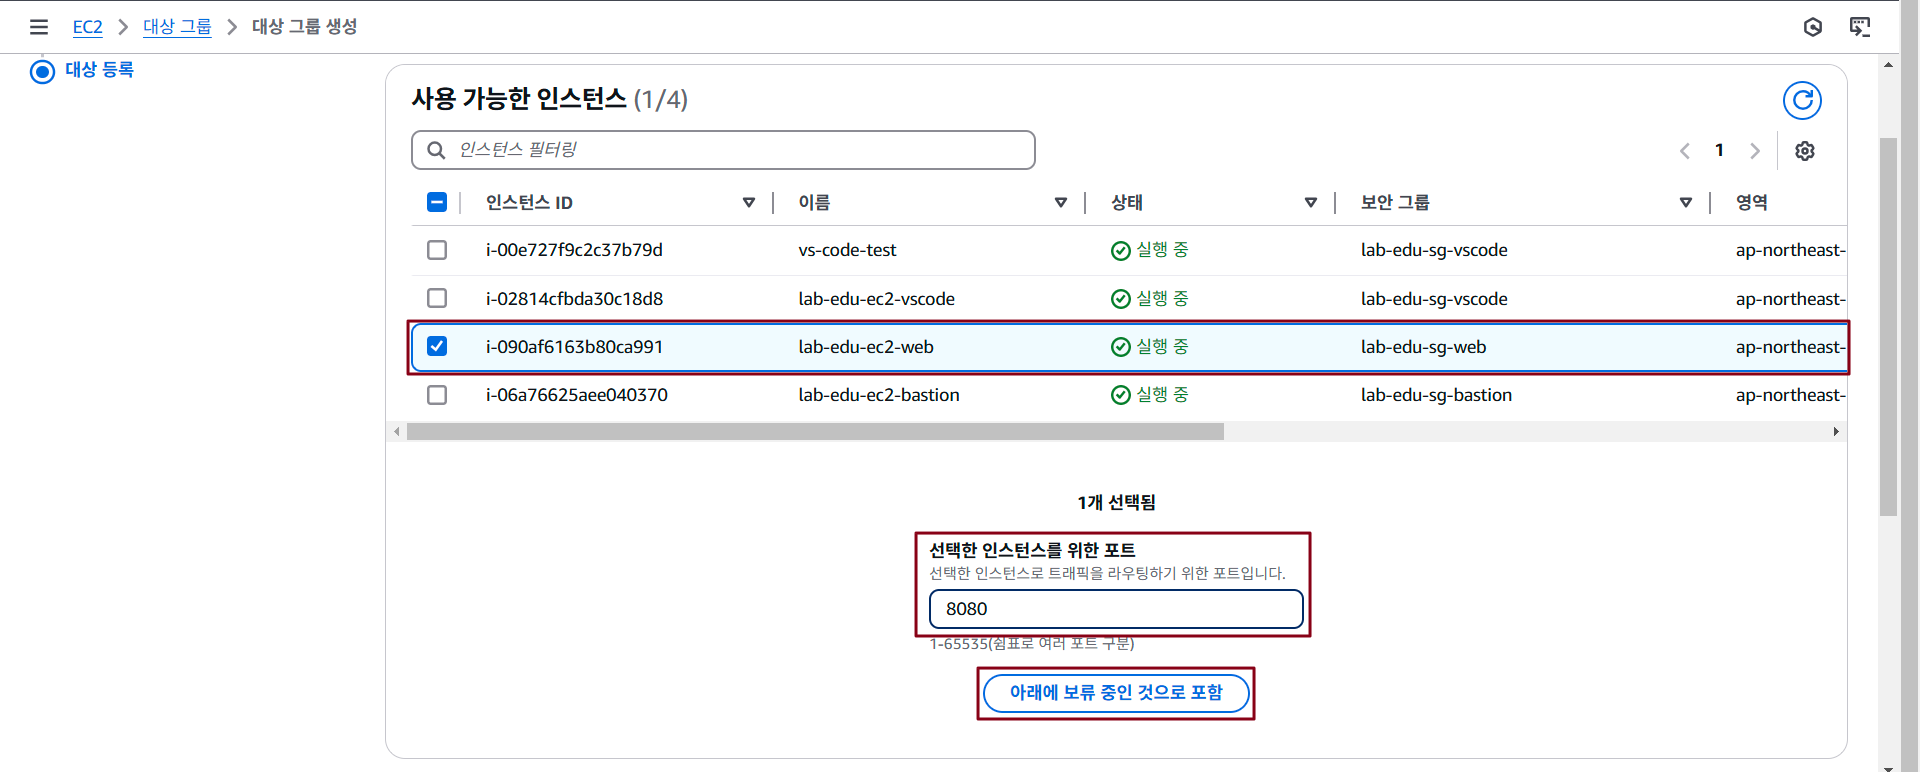
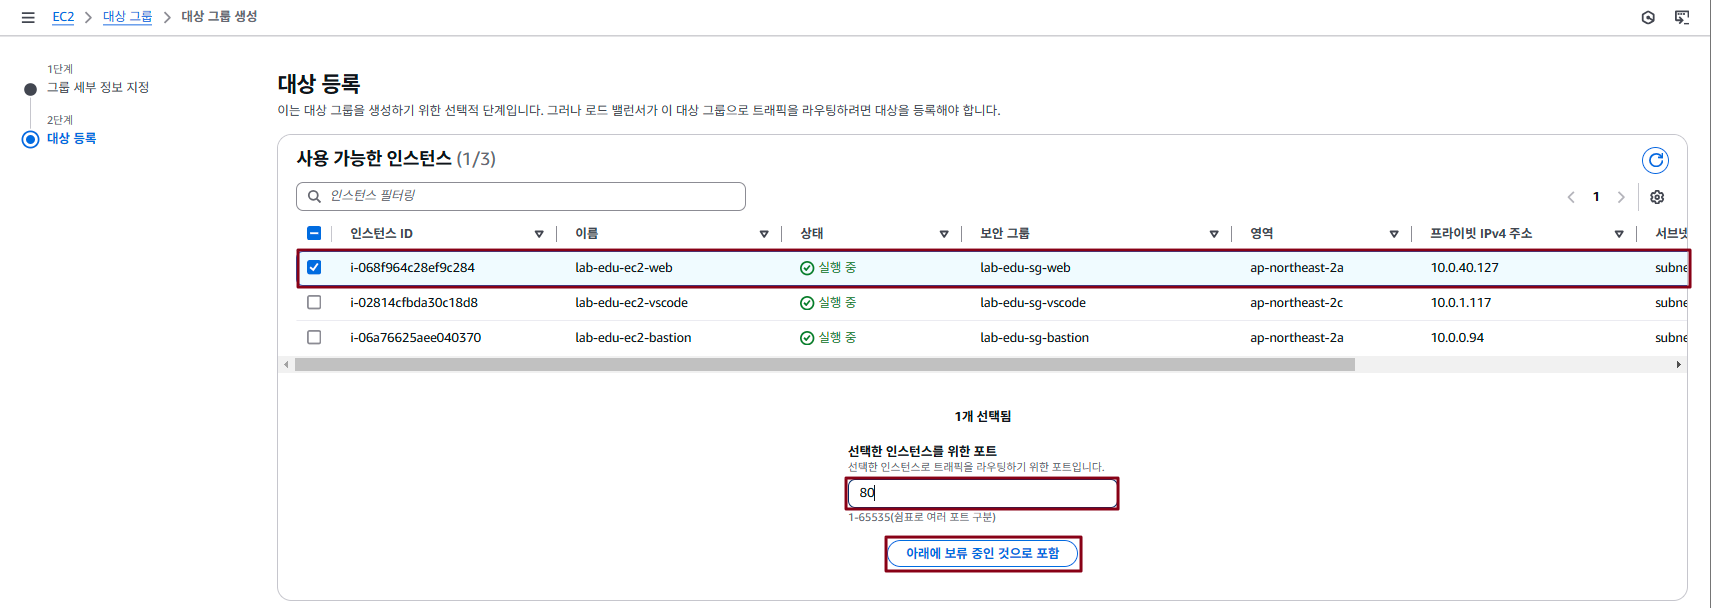
update lb

diff --git a/03. Compute Service - ELB/Elastic Load Balancer.md b/03. Compute Service - ELB/Elastic Load Balancer.md
@@ -31,7 +31,7 @@
 
         - **`lab-edu-ec2-web`** 서버 체크박스 활성화
 
-        - 선택한 인스턴스를 위한 포트: *8080*
+        - 선택한 인스턴스를 위한 포트: *80*
 
         - **`아래에 보류 중인 것으로 포함`** 버튼 클릭
 
@@ -65,9 +65,9 @@
 
         - **Default Action:** `lab-edu-tg-web`
 
-    - 나머지 설정은 **Default** 값으로 유지하고 `로드 밸런서 생성` 버튼 클릭
-
         ![alt text](./img/lb_04.png)
+
+    - 나머지 설정은 **Default** 값으로 유지하고 `로드 밸런서 생성` 버튼 클릭
 
 ### 4. Load Balancer DNS 정보로 웹 서비스 접속 테스트
 
